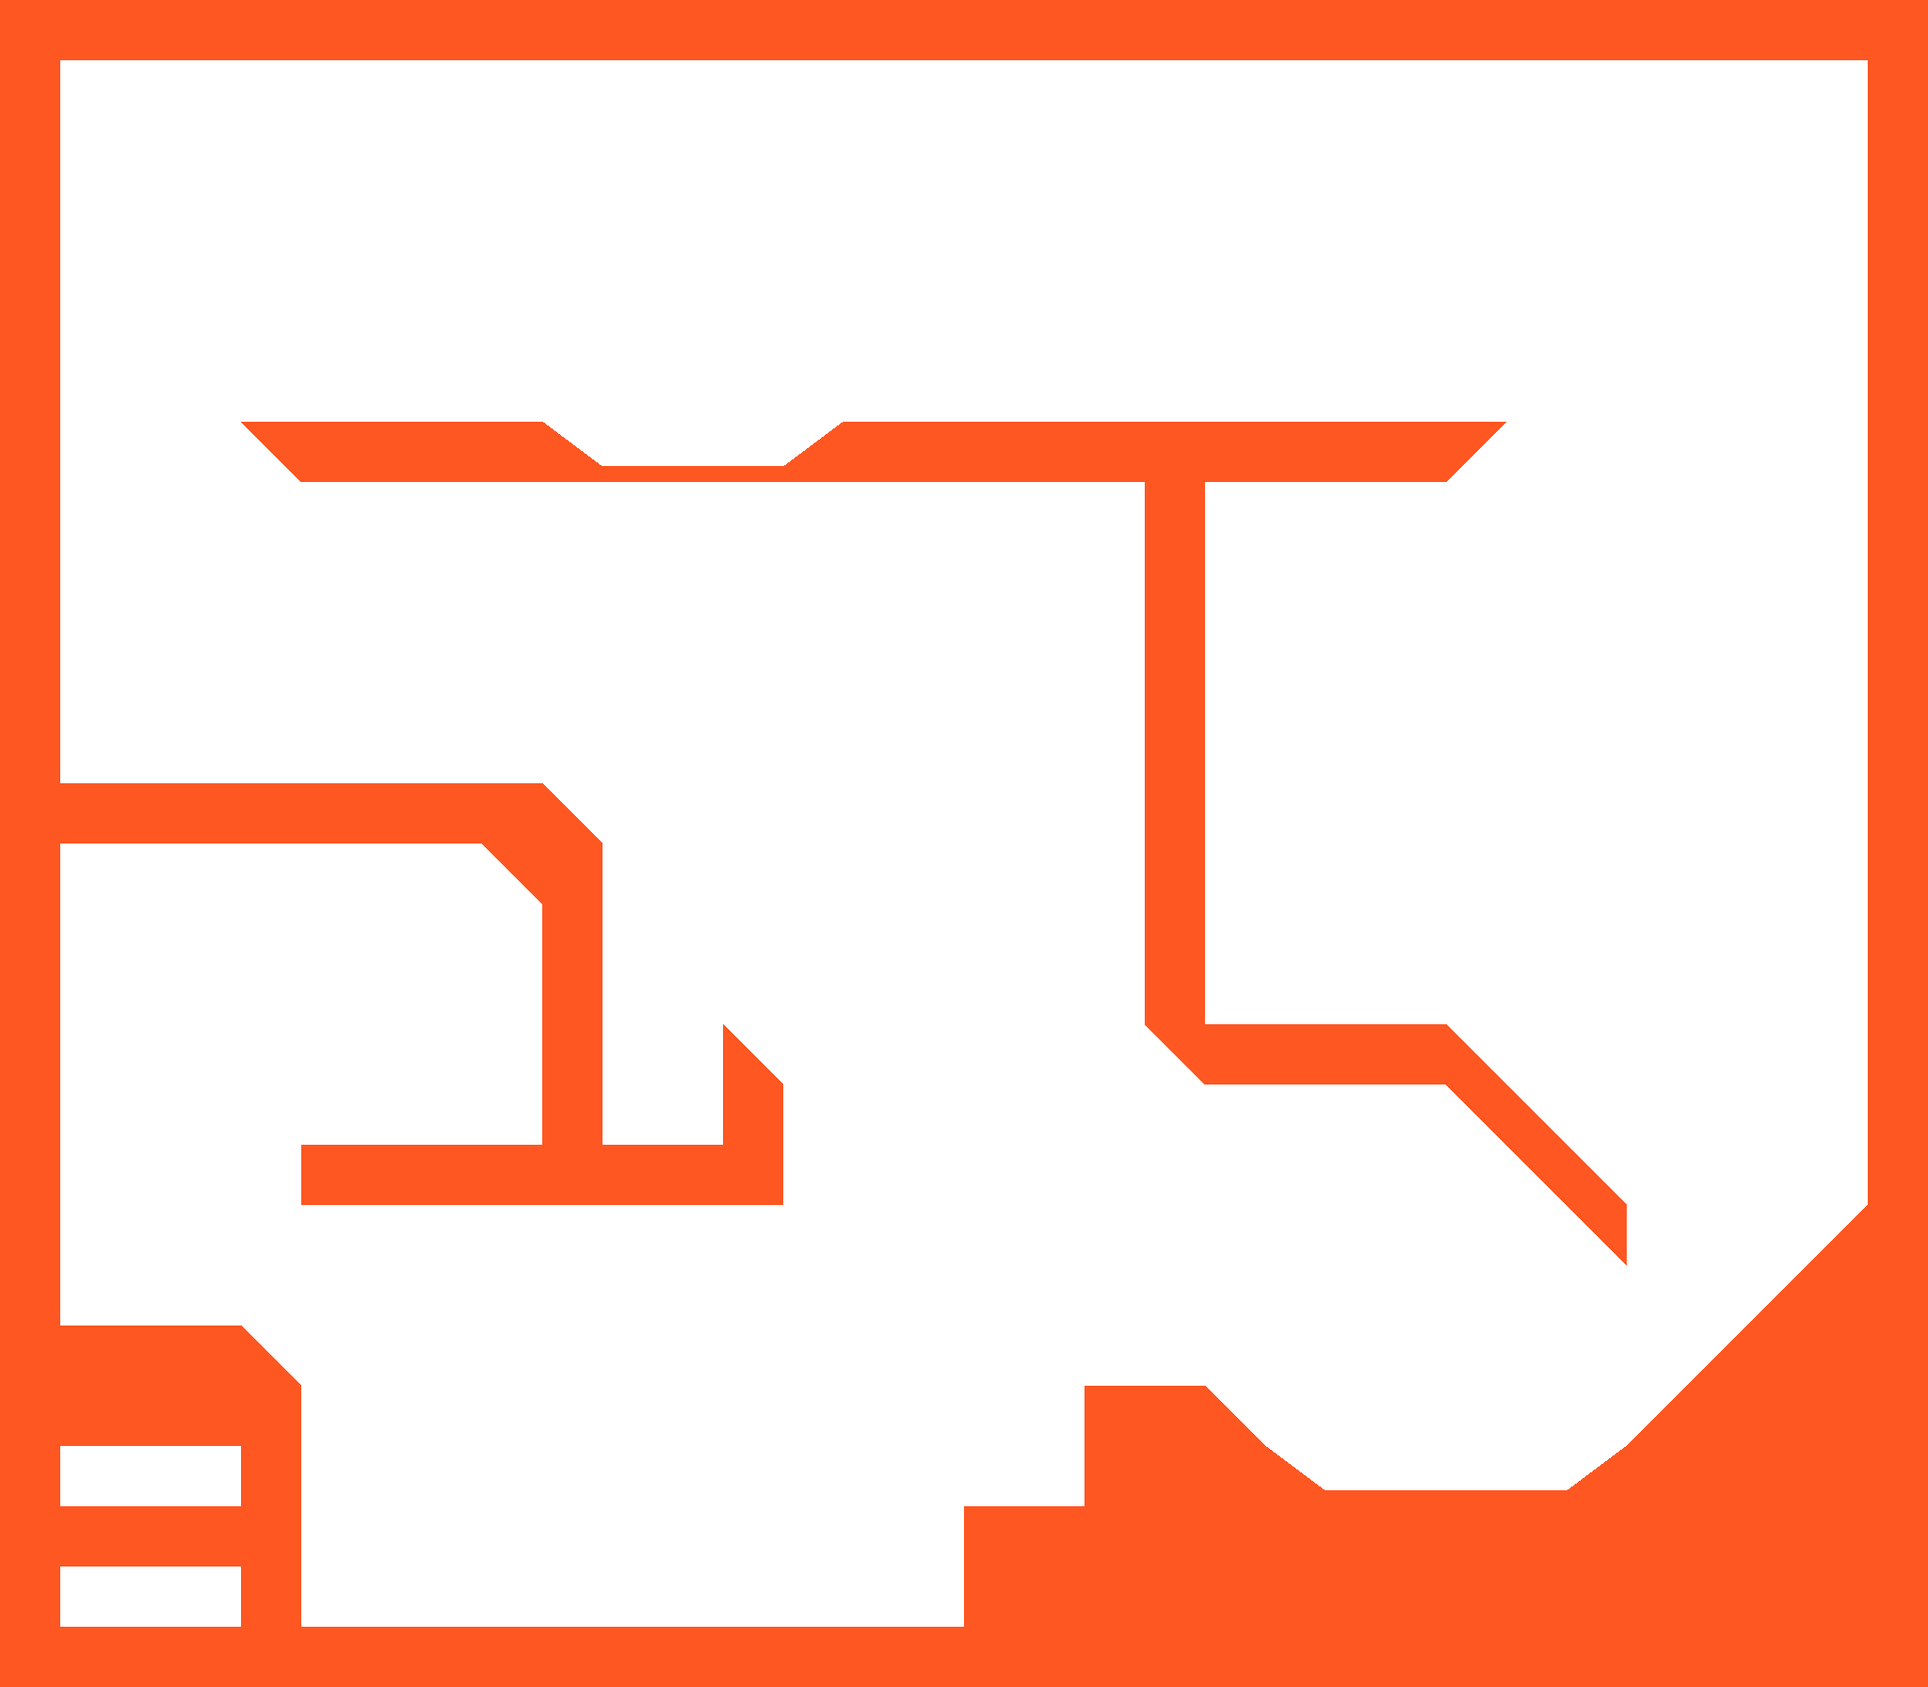
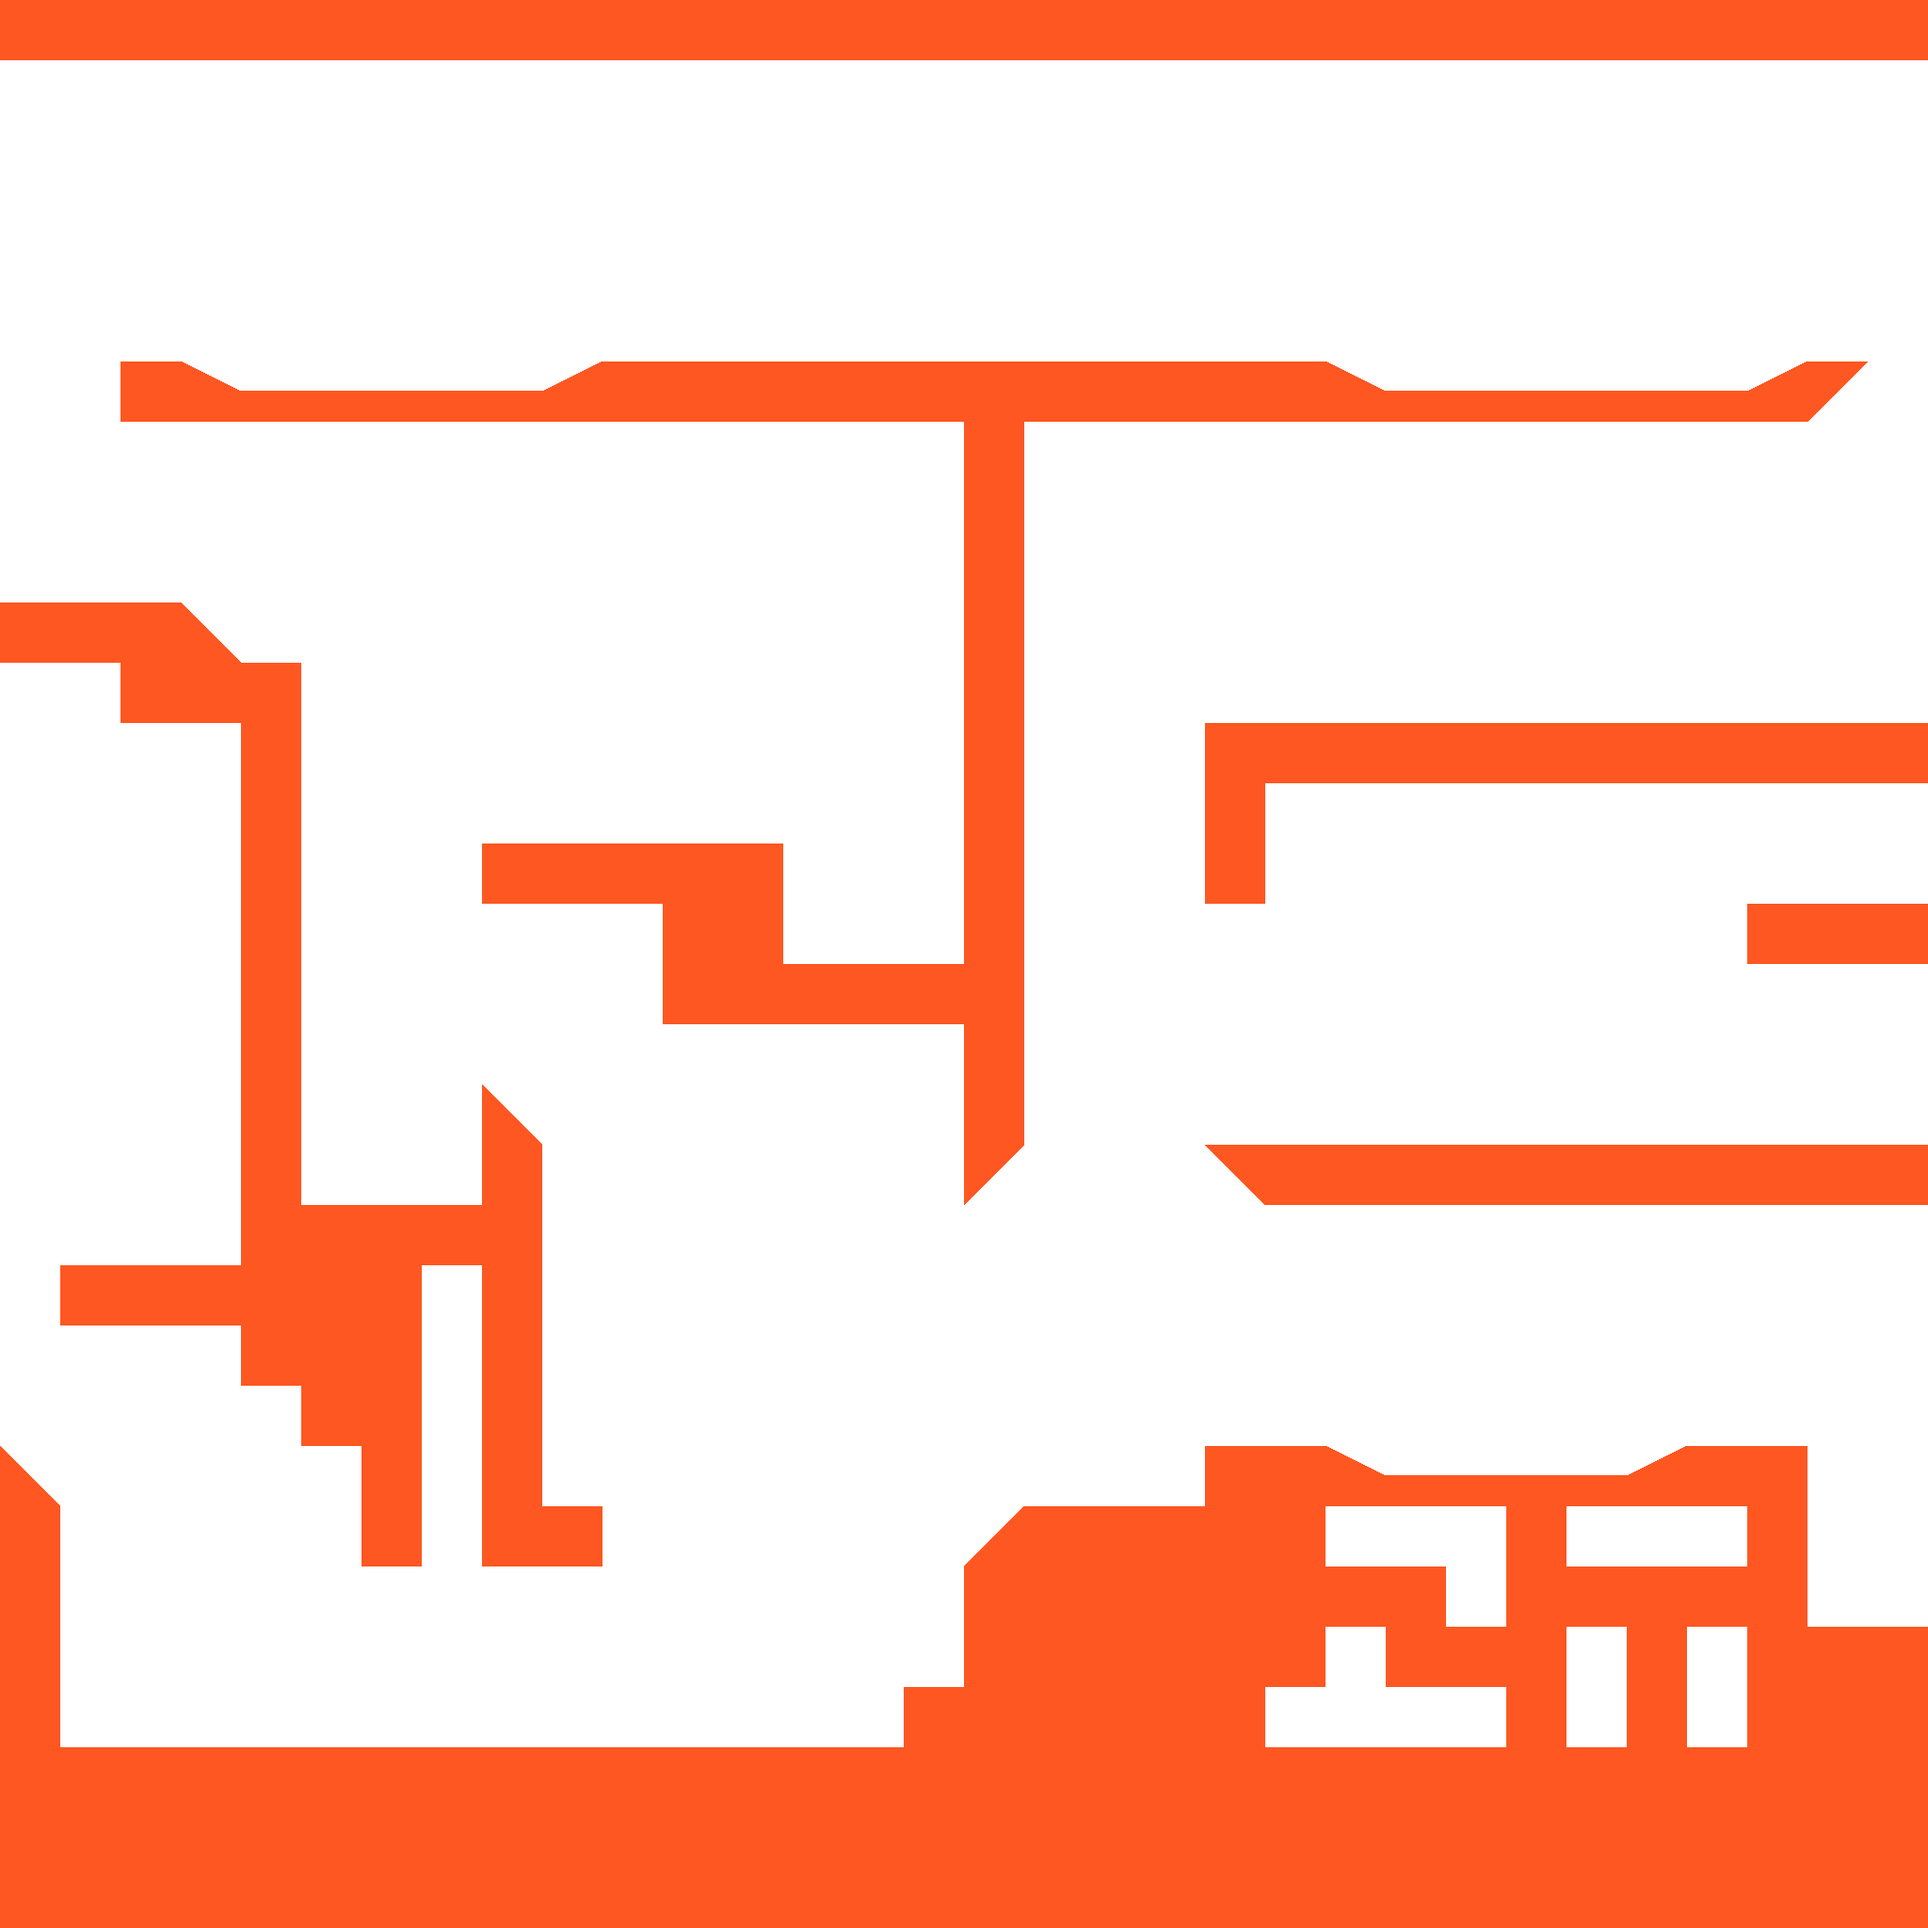
Fondo con shaders

diff --git a/src/game/scenes/PreLoadScene.js b/src/game/scenes/PreLoadScene.js
@@ -3,9 +3,9 @@ import test from '@/game/assets/players/test.png'
 import fireHead from '@/game/assets/players/fire-head.png'
 import fireBody from '@/game/assets/players/fire-body.png'
 import box from '@/game/assets/interactive/box.png'
-import bricksTileset from '@/game/assets/tilesets/bricks.png'
 import baseTileset from '@/game/assets/tilesets/base.png'
 import testMap from '@/game/assets/maps/level-test.json'
+import testMapPng from '@/game/assets/maps/level-test.png'
 import bricks from '@/game/assets/maps/backgrounds/bricks.png'
 
 /*
@@ -20,11 +20,14 @@ export default class PreLoadScene extends Scene {
         this.load.image('fire-head', fireHead)
         this.load.image('fire-body', fireBody)
         this.load.image('box', box)
-        this.load.tilemapTiledJSON('test', testMap)
-        this.load.image('bricks-tileset', bricksTileset)
-        this.load.image('base-tileset', baseTileset)
+
+        //Map related
         this.load.image('bricks', bricks)
+        this.load.image('base-tileset', baseTileset)
+        this.load.image('test-png', testMapPng)
+        this.load.tilemapTiledJSON('test', testMap)
         this.load.glsl({key: 'map-shader', url: 'https://play.conlatoso.com/fuego-agua-shader/map.frag'})
+        this.load.glsl({key: 'background-shader', url: 'https://play.conlatoso.com/fuego-agua-shader/background.frag'})
     }
     create () {
         // I think next scene should be something like 'MenuScene'

diff --git a/src/game/map/Map.js b/src/game/map/Map.js
@@ -11,11 +11,16 @@ export default class Map {
         this.scene.matter.world.convertTilemapLayer(this.layer);
         this.scene.matter.world.setBounds(0, 0, this.map.widthInPixels, this.map.heightInPixels, 32, true, true, false, true);
 
-        this.shader = this.scene.add.shader('map-shader', this.map.widthInPixels / 2, this.map.heightInPixels / 2, this.map.widthInPixels, this.map.heightInPixels);
+        this.mapShader = this.scene.add.shader('map-shader', this.map.widthInPixels / 2, this.map.heightInPixels / 2, this.map.widthInPixels, this.map.heightInPixels);
+        this.backgroundShader = this.scene.add.shader('background-shader', this.map.widthInPixels / 2, this.map.heightInPixels / 2, this.map.widthInPixels, this.map.heightInPixels);
 
-        console.log(this.shader.shader.fragmentSrc)
+        this.mapShader.setChannel0('bricks');
+        this.mapShader.setChannel1('test-png');
 
-        this.shader.setChannel0('bricks');
+        this.backgroundShader.setChannel0('bricks');
+
+        this.backgroundShader.setDepth(0);
+        this.mapShader.setDepth(3);
 
     }
 }

diff --git a/src/App.vue b/src/App.vue
@@ -1,20 +1,21 @@
 <template>
-  <Game />
+    <Game />
 </template>
 
 <script>
 import Game from '@/components/Game'
 export default {
-  components: { Game }
+    components: { Game }
 }
 </script>
 
 <style lang="scss">
 body {
-  height: 100vh;
-  display: flex;
-  justify-content: center;
-  align-items: center;
-  margin: 0;
+    height: 100vh;
+    display: flex;
+    justify-content: center;
+    align-items: center;
+    margin: 0;
+    background-color: black;
 }
 </style>

diff --git a/src/game/game.js b/src/game/game.js
@@ -5,8 +5,8 @@ import PreLoadScene from "./scenes/PreLoadScene";
 function launch(containerId) {
   return new Phaser.Game({
     type: Phaser.WEBGL,
-    width: 2560,
-    height: 1920,
+    width: 2048,
+    height: 2048,
     backgroundColor: '#efefef',
     parent: containerId,
     physics: {

diff --git a/src/game/player/Player.js b/src/game/player/Player.js
@@ -33,6 +33,8 @@ export default class Player {
         this.initializePlayerController(config);
         this.initializeEvents(config);
         this.initializeCollisions(config);
+
+        this.matter.setDepth(1);
     }
     initializeContainer(config) {
         let x = config.x;

diff --git a/src/game/objects/Box.js b/src/game/objects/Box.js
@@ -10,5 +10,7 @@ export default class Box extends PhysicsSprite {
 
         this.physics.setMass(20);
         this.physics.setFriction(2);
+
+        this.setDepth(1);
     }
 }
